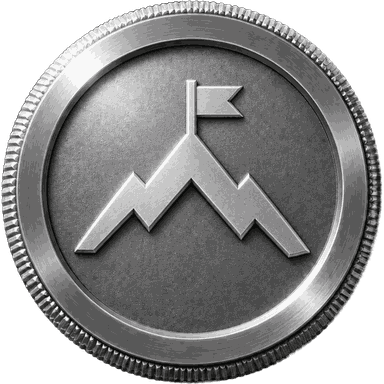
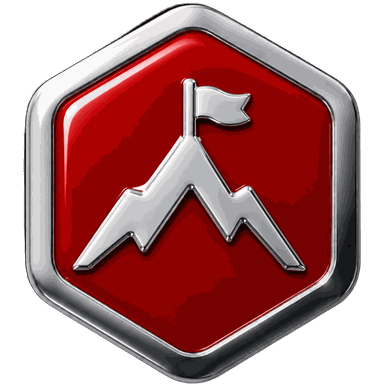
Restyle the award medals as enamel-and-silver badges
The plain metal coins were too monochrome next to the references. Each
award is now a thick polished silver bezel around a glossy coloured
enamel face, with the emblem and its label embossed in raised silver —
and the badges vary in shape: hexagons, circles and squircles.

- New artwork for all 13 awards, generated with Higgsfield from one
  master badge so the bezel, bevels and lighting match across the set.
  The three rarest (Iron Month, 1000 Reps, Program Complete) get a
  radiating stained-glass face, like a race finisher medal.
- awards.ts replaces the metal-tier palettes with one enamel accent per
  award, so no two awards share a colour. The ceremony's spotlight,
  floor and the award name are all tinted to the badge on screen: gold
  behind First Step, violet behind Iron Month, magenta behind Full Week.
- Assets are trimmed, squared and quantised as before: 384px, 448 KB for
  all 13.

63 tests passing.

Claude-Session: https://claude.ai/code/session_01LpH1c8K2SDYXQ4AqsrPejR

diff --git a/src/domain/gamification/awards.ts b/src/domain/gamification/awards.ts
@@ -1,55 +1,40 @@
 /**
- * Award (badge) presentation model: which metal a badge is struck in and how
+ * Award presentation model: the enamel colour each award is struck in and how
  * its earned date reads in each language. Kept out of the UI so it can be
- * unit-tested and reused by both the celebration screen and the awards grid.
+ * unit-tested and reused by the ceremony screen and the awards grid alike.
+ *
+ * The colours mirror the artwork in assets/medals — each badge is a silver
+ * bezel around a coloured enamel face, and the stage lighting on the award
+ * screen is tinted to match.
  */
-export type AwardMetal = 'bronze' | 'silver' | 'gold' | 'platinum';
-
-export interface MetalPalette {
-  /** Outer rim, darkest. */
-  rim: string;
-  /** Body gradient, dark → light → dark gives the rounded metal look. */
-  dark: string;
-  base: string;
-  light: string;
-  /** Specular highlight. */
-  shine: string;
-  /** Spotlight colour behind the medal. */
-  glow: string;
-  /** Text tint for the award name. */
+export interface AwardStyle {
+  /** Enamel face colour; drives the stage glow and halo. */
+  accent: string;
+  /** Lighter tint used for the award name. */
   text: string;
 }
 
-export const METALS: Record<AwardMetal, MetalPalette> = {
-  bronze: { rim: '#6B3A1B', dark: '#8A4A22', base: '#C2763A', light: '#F0B37E', shine: '#FFE3C7', glow: '#C2763A', text: '#F0B37E' },
-  silver: { rim: '#5A6376', dark: '#79839A', base: '#B9C2D4', light: '#E8EDF7', shine: '#FFFFFF', glow: '#A9B4CC', text: '#E8EDF7' },
-  gold: { rim: '#7A5310', dark: '#A9781C', base: '#E0A82E', light: '#FFDE8A', shine: '#FFF6D6', glow: '#E0A82E', text: '#FFDE8A' },
-  platinum: { rim: '#2C6B63', dark: '#2E8F80', base: '#3FC7AE', light: '#9FF3E2', shine: '#E6FFFA', glow: '#3FC7AE', text: '#9FF3E2' },
+export const AWARD_STYLES: Record<string, AwardStyle> = {
+  first_workout: { accent: '#FFC531', text: '#FFE39A' },
+  streak_3: { accent: '#FF7A2F', text: '#FFC49A' },
+  streak_7: { accent: '#FF3D8B', text: '#FFA3C7' },
+  streak_14: { accent: '#2F9BFF', text: '#A6D3FF' },
+  streak_30: { accent: '#8B5CF6', text: '#C9B4FF' },
+  squats_100: { accent: '#14C4A4', text: '#8CEBD9' },
+  pushups_100: { accent: '#FF5C5C', text: '#FFAFAF' },
+  reps_1000: { accent: '#FFB020', text: '#FFDA96' },
+  hard_day: { accent: '#E63950', text: '#FF9FAC' },
+  perfect_form: { accent: '#3DDC84', text: '#A5F3C6' },
+  program_complete: { accent: '#C94FFF', text: '#E5B4FF' },
+  level_5: { accent: '#4DA3FF', text: '#B3D8FF' },
+  level_10: { accent: '#A855F7', text: '#DCBBFF' },
 };
 
-/** Which metal each badge is struck in — rarer achievements get richer metal. */
-export const AWARD_METAL: Record<string, AwardMetal> = {
-  first_workout: 'bronze',
-  streak_3: 'bronze',
-  squats_100: 'bronze',
-  pushups_100: 'bronze',
-  hard_day: 'silver',
-  streak_7: 'silver',
-  perfect_form: 'silver',
-  level_5: 'silver',
-  streak_14: 'gold',
-  reps_1000: 'gold',
-  level_10: 'gold',
-  streak_30: 'platinum',
-  program_complete: 'platinum',
-};
+/** An award that has not been earned yet: no colour, just cold steel. */
+export const LOCKED_STYLE: AwardStyle = { accent: '#5A6486', text: '#9AA3C2' };
 
-export function metalFor(badgeId: string): AwardMetal {
-  return AWARD_METAL[badgeId] ?? 'bronze';
-}
-
-export function paletteFor(badgeId: string): MetalPalette {
-  return METALS[metalFor(badgeId)];
+export function styleFor(badgeId: string): AwardStyle {
+  return AWARD_STYLES[badgeId] ?? LOCKED_STYLE;
 }
 
 const MONTHS_EN = ['Jan', 'Feb', 'Mar', 'Apr', 'May', 'Jun', 'Jul', 'Aug', 'Sep', 'Oct', 'Nov', 'Dec'];
@@ -69,7 +54,7 @@ export function formatAwardDate(iso: string | undefined, lang: 'mn' | 'en'): str
   return `${y}.${mo}.${d}`;
 }
 
-/** Awards are shown newest-first in the grid but earn-order in the celebration pager. */
+/** Awards are paged through in the order they were earned. */
 export function sortByEarned(badgeIds: string[], earnedAt: Record<string, string>): string[] {
   return [...badgeIds].sort((a, b) => (earnedAt[a] ?? '').localeCompare(earnedAt[b] ?? ''));
 }

diff --git a/src/features/gamification/AwardScreen.tsx b/src/features/gamification/AwardScreen.tsx
@@ -4,9 +4,9 @@ import * as Haptics from 'expo-haptics';
 import { LinearGradient } from 'expo-linear-gradient';
 import Svg, { Defs, Ellipse, Polygon, RadialGradient, Stop } from 'react-native-svg';
 import { RootScreenProps } from '@/app/navigation/types';
-import { AwardMedal, LOCKED_METAL } from '@/components/AwardMedal';
+import { AwardMedal } from '@/components/AwardMedal';
 import { Icon } from '@/components/Icon';
-import { formatAwardDate, paletteFor } from '@/domain/gamification/awards';
+import { LOCKED_STYLE, formatAwardDate, styleFor } from '@/domain/gamification/awards';
 import { useI18nStore, useT } from '@/i18n';
 import { useProgressStore } from '@/store/useProgressStore';
 import { colors, radius, spacing } from '@/theme';
@@ -57,7 +57,7 @@ export function AwardScreen({ route, navigation }: RootScreenProps<'Award'>) {
 
   const current = ids[Math.min(page, ids.length - 1)] ?? ids[0] ?? 'first_workout';
   const info = t.badges[current as keyof typeof t.badges];
-  const palette = owned.includes(current) ? paletteFor(current) : LOCKED_METAL;
+  const style = owned.includes(current) ? styleFor(current) : LOCKED_STYLE;
   const date = formatAwardDate(earnedAt[current], language);
   const isOwned = owned.includes(current);
 
@@ -85,7 +85,7 @@ export function AwardScreen({ route, navigation }: RootScreenProps<'Award'>) {
   return (
     <View style={styles.root}>
       <LinearGradient colors={['#05070F', '#101736', '#05070F']} locations={[0, 0.55, 1]} style={StyleSheet.absoluteFill} />
-      <Spotlight color={palette.glow} progress={enter} scale={glowScale} />
+      <Spotlight color={style.accent} progress={enter} scale={glowScale} />
 
       <View style={styles.stage}>
       <Animated.View style={[styles.header, { opacity: text }]}>
@@ -116,10 +116,10 @@ export function AwardScreen({ route, navigation }: RootScreenProps<'Award'>) {
         {ids.map((id) => (
             <View key={id} style={styles.page}>
               <Animated.View style={{ opacity: medal, transform: [{ scale: medal }, { translateY: float }] }}>
-                <AwardMedal badgeId={id} palette={paletteFor(id)} size={MEDAL} locked={!owned.includes(id)} />
+                <AwardMedal badgeId={id} style={styleFor(id)} size={MEDAL} locked={!owned.includes(id)} />
               </Animated.View>
               <Animated.View style={{ opacity: enter, marginTop: -MEDAL * 0.14 }}>
-                <Pedestal id={id} color={owned.includes(id) ? paletteFor(id).glow : LOCKED_METAL.glow} width={MEDAL * 1.25} />
+                <Pedestal id={id} color={owned.includes(id) ? styleFor(id).accent : LOCKED_STYLE.accent} width={MEDAL * 1.25} />
               </Animated.View>
             </View>
         ))}
@@ -128,7 +128,7 @@ export function AwardScreen({ route, navigation }: RootScreenProps<'Award'>) {
       <Animated.View style={[styles.body, { opacity: text, transform: [{ translateY: text.interpolate({ inputRange: [0, 1], outputRange: [20, 0] }) }] }]}>
         <Text style={styles.congrats}>
           {isOwned ? t.awards.congrats : t.awards.howTo}
-          <Text style={[styles.congratsStrong, { color: palette.text }]}>{` ${info?.description ?? ''}`}</Text>
+          <Text style={[styles.congratsStrong, { color: style.text }]}>{` ${info?.description ?? ''}`}</Text>
         </Text>
         {ids.length > 1 ? (
           <View style={styles.dots}>

diff --git a/src/components/AwardMedal.tsx b/src/components/AwardMedal.tsx
@@ -2,42 +2,37 @@ import React from 'react';
 import { StyleSheet, View } from 'react-native';
 import { Image } from 'expo-image';
 import Svg, { Circle, Defs, RadialGradient, Stop } from 'react-native-svg';
-import { MetalPalette } from '@/domain/gamification/awards';
+import { AwardStyle, LOCKED_STYLE } from '@/domain/gamification/awards';
 import { Icon } from '@/components/Icon';
 import { MEDAL_IMAGES } from '@/components/medalAssets';
 
-/** Palette used for an award that has not been earned yet. */
-export const LOCKED_METAL: MetalPalette = {
-  rim: '#222A45', dark: '#39425F', base: '#4B5474', light: '#6B7394', shine: '#8A93B4', glow: '#5A6486', text: '#9AA3C2',
-};
-
 interface Props {
   badgeId: string;
-  palette: MetalPalette;
+  style: AwardStyle;
   size?: number;
   /** Struck but not yet earned: dimmed, behind a padlock. */
   locked?: boolean;
 }
 
 /**
- * An award medal. Earned awards show their struck-metal artwork; unearned ones
- * are dimmed to a silhouette under a padlock, the way the OS fitness apps do it.
+ * An award badge. Earned awards show their enamel-and-silver artwork; unearned
+ * ones dim to a silhouette under a padlock, the way the OS fitness apps do it.
  */
-export function AwardMedal({ badgeId, palette, size = 220, locked = false }: Props) {
+export function AwardMedal({ badgeId, style, size = 220, locked = false }: Props) {
   const source = MEDAL_IMAGES[badgeId] ?? MEDAL_IMAGES.first_workout;
-  const p = locked ? LOCKED_METAL : palette;
+  const s = locked ? LOCKED_STYLE : style;
 
   return (
     <View style={{ width: size, height: size, alignItems: 'center', justifyContent: 'center' }}>
-      {/* Soft halo in the medal's own metal, so it reads as lit rather than pasted on. */}
-      <Svg width={size * 1.3} height={size * 1.3} style={styles.halo} pointerEvents="none">
+      {/* Halo in the badge's own enamel colour, so it reads as lit rather than pasted on. */}
+      <Svg width={size * 1.4} height={size * 1.4} style={styles.halo} pointerEvents="none">
         <Defs>
           <RadialGradient id={`halo-${badgeId}`} cx="0.5" cy="0.5" r="0.5">
-            <Stop offset="0.45" stopColor={p.glow} stopOpacity={locked ? '0.12' : '0.3'} />
-            <Stop offset="1" stopColor={p.glow} stopOpacity="0" />
+            <Stop offset="0.35" stopColor={s.accent} stopOpacity={locked ? '0.1' : '0.34'} />
+            <Stop offset="1" stopColor={s.accent} stopOpacity="0" />
           </RadialGradient>
         </Defs>
-        <Circle cx={size * 0.65} cy={size * 0.65} r={size * 0.64} fill={`url(#halo-${badgeId})`} />
+        <Circle cx={size * 0.7} cy={size * 0.7} r={size * 0.69} fill={`url(#halo-${badgeId})`} />
       </Svg>
 
       <Image
@@ -49,7 +44,7 @@ export function AwardMedal({ badgeId, palette, size = 220, locked = false }: Pro
 
       {locked ? (
         <View style={styles.lock} pointerEvents="none">
-          <Icon name="lock" size={size * 0.24} color={LOCKED_METAL.shine} strokeWidth={2} />
+          <Icon name="lock" size={size * 0.24} color="#8A93B4" strokeWidth={2} />
         </View>
       ) : null}
     </View>

diff --git a/src/features/progress/ProgressScreen.tsx b/src/features/progress/ProgressScreen.tsx
@@ -7,7 +7,7 @@ import { Body, Caption, Card, ProgressBar, Row, Screen, Stat, Subheading, Title 
 import { Icon } from '@/components/Icon';
 import { AwardMedal } from '@/components/AwardMedal';
 import { BADGES } from '@/domain/gamification/badges';
-import { paletteFor } from '@/domain/gamification/awards';
+import { styleFor } from '@/domain/gamification/awards';
 import { levelProgress } from '@/domain/gamification/levels';
 import { nextTitle, titleForLevel } from '@/domain/gamification/titles';
 import { titleName } from '@/features/gamification/titleName';
@@ -69,7 +69,7 @@ export function ProgressScreen() {
               accessibilityRole="button"
               onPress={() => navigation.navigate('Award', { badgeIds: BADGES.map((x) => x.id), index: i, after: 'back' })}
             >
-              <AwardMedal badgeId={b.id} palette={paletteFor(b.id)} size={64} locked={!has} />
+              <AwardMedal badgeId={b.id} style={styleFor(b.id)} size={64} locked={!has} />
               <Text style={[styles.badgeName, !has && { color: colors.textDim }]} numberOfLines={2}>{info?.name ?? b.id}</Text>
             </Pressable>
           );

diff --git a/src/features/workout/WorkoutCompleteScreen.tsx b/src/features/workout/WorkoutCompleteScreen.tsx
@@ -6,7 +6,7 @@ import { Body, Button, Card, Row, Screen, Stat, Title } from '@/components/ui';
 import { Confetti } from '@/components/Confetti';
 import { Icon } from '@/components/Icon';
 import { AwardMedal } from '@/components/AwardMedal';
-import { paletteFor } from '@/domain/gamification/awards';
+import { styleFor } from '@/domain/gamification/awards';
 import { titleForLevel } from '@/domain/gamification/titles';
 import { XpBar } from '@/components/XpBar';
 import { titleName } from '@/features/gamification/titleName';
@@ -78,7 +78,7 @@ export function WorkoutCompleteScreen({ route, navigation }: RootScreenProps<'Wo
               const info = t.badges[id as keyof typeof t.badges];
               return (
                 <Row key={id}>
-                  <AwardMedal badgeId={id} palette={paletteFor(id)} size={54} />
+                  <AwardMedal badgeId={id} style={styleFor(id)} size={54} />
                   <View style={{ flex: 1 }}>
                     <Body style={{ fontWeight: '700' }}>{info?.name ?? id}</Body>
                     <Body muted>{info?.description}</Body>

diff --git a/src/__tests__/awards.test.ts b/src/__tests__/awards.test.ts
@@ -1,14 +1,15 @@
-import { AWARD_METAL, formatAwardDate, metalFor, paletteFor, sortByEarned } from '@/domain/gamification/awards';
+import { AWARD_STYLES, LOCKED_STYLE, formatAwardDate, sortByEarned, styleFor } from '@/domain/gamification/awards';
 import { BADGES } from '@/domain/gamification/badges';
 
 describe('awards', () => {
-  it('assigns a metal to every badge', () => {
-    for (const b of BADGES) expect(AWARD_METAL[b.id]).toBeDefined();
+  it('gives every badge its own enamel colour', () => {
+    const accents = BADGES.map((b) => AWARD_STYLES[b.id]?.accent);
+    for (const a of accents) expect(a).toMatch(/^#[0-9A-F]{6}$/);
+    expect(new Set(accents).size).toBe(BADGES.length);
   });
 
-  it('falls back to bronze for an unknown badge', () => {
-    expect(metalFor('nope')).toBe('bronze');
-    expect(paletteFor('nope')).toBe(paletteFor('first_workout'));
+  it('falls back to the locked style for an unknown badge', () => {
+    expect(styleFor('nope')).toBe(LOCKED_STYLE);
   });
 
   it('formats the earned date per language', () => {
